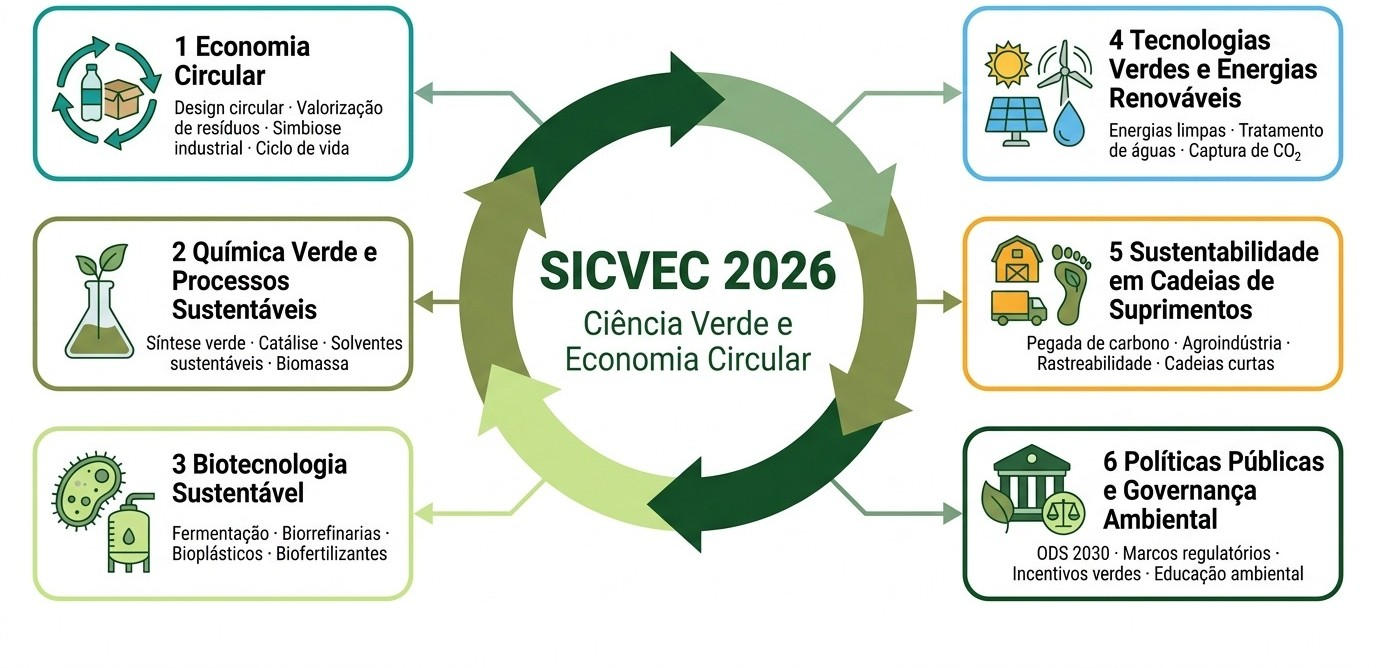
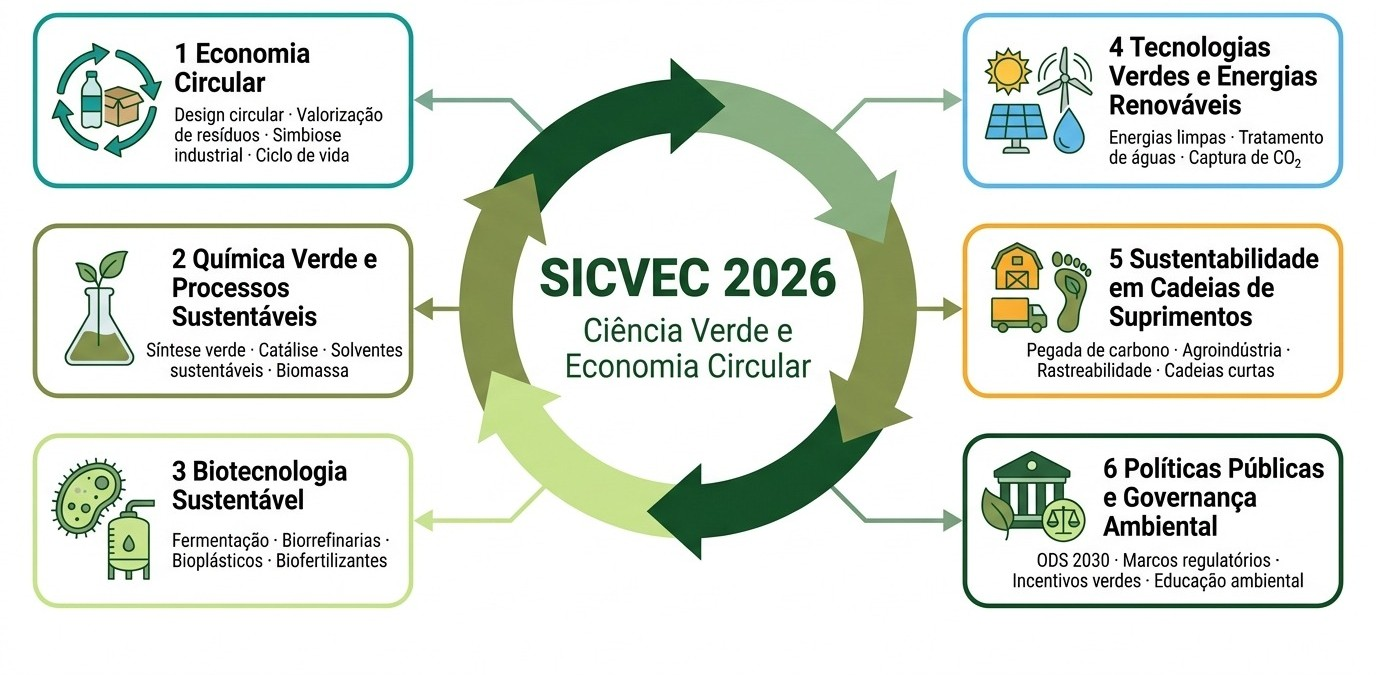
Home: axes figures keep the top card borders (title painted out instead of cropped); log

diff --git a/docs/LOG.md b/docs/LOG.md
@@ -647,3 +647,9 @@ the commit or memory records them as his. Older narrative log: `../LOG_Actividad
   biosurfactants), supervision counts, ~30 articles, three awards. Every fact sourced in FICHA_RenonEller.md. Found:
   our Academic Coordinator María Ximena Díaz did her MSc (2017, UFV) under her. New test; 41 pass.
 - Commit fc0439e (09:09); zip `dist/SICVEC_app_2026-09-30i.zip` (supersedes 30h).
+- AC, 2026-09-30 (screenshot of the home page): axes figure "pierde el borde superior". Cause: the web copies were made
+  by cropping the title band (top 95 px es/en, 100 px pt), but in es/en the title sits between the two top cards and
+  reaches y=91 while the card borders start at y=87, so the crop cut the top border of cards 1 and 4. Fix: from the
+  originals, white rectangle over the title between the cards (x 485-895 es/en; pt title painted out the same way) and
+  crop 12 px above the card tops (es/en from y=75, 1376x693; pt from y=93, 1376x675). Checked by eye: borders whole, no
+  title remnant (the first es pass left "Ej": the auto-detected card edge was wrong). SDG figures were never cropped. 41 pass.
